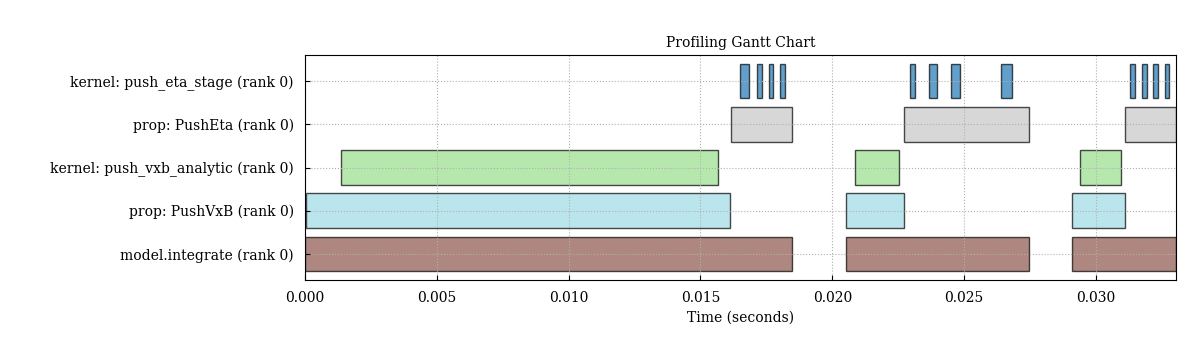
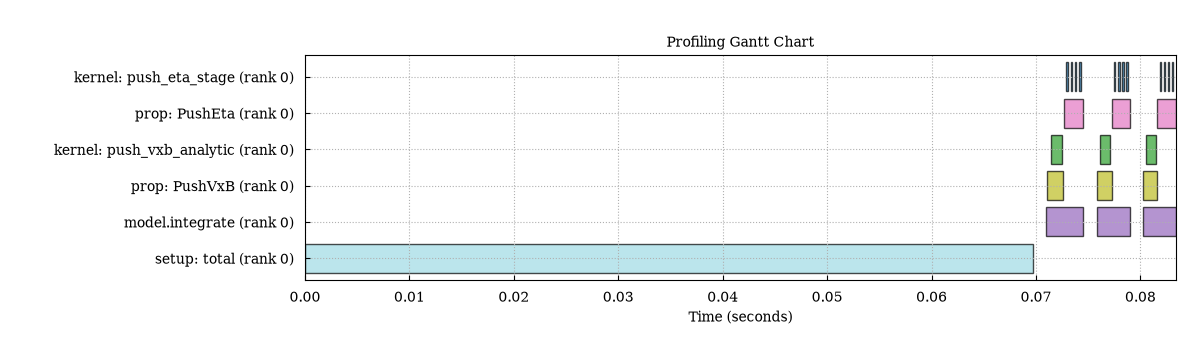
Update docs

diff --git a/profiling/profiling_job.py b/profiling/profiling_job.py
@@ -38,6 +38,7 @@ mpi4py.rc.finalize = False
 
 import json
 import os
+import shlex
 import shutil
 import subprocess
 import time
@@ -661,7 +662,12 @@ class ProfilingCase:
                 print("Upload skipped; nothing was pushed to the profiling-data repo.")
                 print("Push this case later, exactly as packaged, without re-running it:")
                 print(f"    python {script_dir / 'upload.py'} {self.destination_dir}")
-                print("Or plot the results locally by opening the HTML files in the packaged directories, e.g.:")
-                print(f"    scope-profiler pproc {self.destination_dir / _run_folder_name(sorted(packaged_launch_ids)[0]) / '*.h5'} --rank 0")
+                first_run_glob = self.destination_dir / _run_folder_name(sorted(packaged_launch_ids)[0]) / "*.h5"
+                plot_dir = self.destination_dir / "figures"
+                print("Or plot the results locally from the packaged profiling_data.h5 files, e.g.:")
+                print(
+                    "    scope-profiler plot all "
+                    f"{shlex.quote(str(first_run_glob))} --ranks 0 -o {shlex.quote(str(plot_dir))}",
+                )
         else:
             print(f"No profiling output found for '{self.label}'; nothing to package.")

diff --git a/doc/sections/userguide.rst b/doc/sections/userguide.rst
@@ -850,7 +850,6 @@ to:
 
     env = EnvironmentOptions(
         profiling_activated=True,
-        profiling_trace=True,
     )
 
 Then run the file as usual:
@@ -860,10 +859,9 @@ Then run the file as usual:
     python params_Vlasov.py
 
 When profiling is enabled, Struphy writes the main profiling data to
-``profiling_data.h5`` in the simulation output folder. If ``profiling_trace``
-is enabled, this file also contains the per-call timestamps needed for
-time-based plots such as Gantt charts; without it, only call counts are
-recorded.
+``profiling_data.h5`` in the simulation output folder. The file contains the
+region timings and per-call timestamps needed for time-based plots such as
+Gantt charts and flame graphs.
 
 Note that ``profiling_data.h5`` is a plain ``scope-profiler`` output file, so
 it is post-processed with ``scope-profiler`` itself rather than with
@@ -873,19 +871,22 @@ it is post-processed with ``scope-profiler`` itself rather than with
 Post-processing with the ``scope-profiler`` CLI
 ^^^^^^^^^^^^^^^^^^^^^^^^^^^^^^^^^^^^^^^^^^^^^^^^
 
-``scope-profiler`` ships its own post-processing command, ``scope-profiler
-pproc``, which turns one or more ``profiling_data.h5`` files into Gantt
-charts, flame graphs, duration bar charts, a duration-over-time view, and a
-``region_statistics.json`` summary — without writing any code:
+``scope-profiler`` ships its own post-processing commands. In version 0.3.1,
+plotting lives under ``scope-profiler plot``. For the full set of standard
+figures, use the ``all`` preset:
 
 .. code-block:: bash
 
-    scope-profiler pproc sim_1/profiling_data.h5 -o figures
+    scope-profiler plot all sim_1/profiling_data.h5 \
+        --include '^setup: total$' '^model\.integrate$' '^prop: ' '^kernel: ' \
+        -o figures
 
 The two figures below were generated exactly this way, from the
 ``params_Vlasov.py`` example above (default grid and time stepping,
-3 saved steps, 1 MPI rank). To regenerate them, run
-``doc/generate_profiling_figures.sh`` from the repository root.
+3 saved steps, 1 MPI rank), filtered to ``setup: total``,
+``model.integrate``, ``prop: <PropagatorName>`` and ``kernel: <kernel_name>``
+regions. To regenerate them, run ``doc/generate_profiling_figures.sh`` from the
+repository root.
 
 The Gantt chart places one lane per ``(region, rank)`` pair and is the view to
 reach for when the question is *when* things happened — startup cost, gaps
@@ -895,7 +896,7 @@ between steps, ranks drifting apart:
     :figwidth: 100%
     :alt: Gantt chart of profiling regions across MPI ranks
 
-    Gantt chart produced by ``scope-profiler pproc`` for the ``Vlasov``
+    Gantt chart produced by ``scope-profiler plot all`` for the ``Vlasov``
     example, one lane per region.
 
 The flame graph instead answers *where the time went*: the call stack is
@@ -910,19 +911,18 @@ reconstructed from timestamp containment, so nested regions such as
     Flame graph for the same run, rank 0, showing nested profiling regions.
 
 Passing several ``profiling_data.h5`` files (e.g. from runs at different MPI
-rank counts) additionally produces a per-region speedup plot, and
-``--x-field`` can compare runs along other metadata fields such as
+rank counts) to ``scope-profiler plot speedup`` produces a per-region speedup
+plot, and ``--x`` can compare runs along other metadata fields such as
 ``omp_num_threads``. Filtering regions with ``--include``/``--exclude``,
 selecting ranks with ``--ranks``, switching to interactive HTML output with
-``--backend plotly``, and exporting the underlying data or ``.prof`` /
-speedscope files for external viewers are all covered in the
+``--backend plotly``, inspecting text summaries with ``scope-profiler
+inspect``, and exporting the underlying plot data or ``.prof`` / speedscope
+files with ``scope-profiler export`` are all covered in the
 `postprocessing CLI guide <https://max-models.github.io/scope-profiler/guide/postprocessing_cli.html>`_.
 This documentation page is not meant to duplicate that guide — see the link
 for the full set of flags and examples.
 
-If you need a quick sanity check without the CLI, look at
-``region_statistics.json`` for the total runtime of the dominant regions and
-compare them across ranks. A large imbalance between ranks usually means the
-expensive section is load-dependent rather than purely algorithmic.
-
-
+For a quick text sanity check, run ``scope-profiler inspect
+sim_1/profiling_data.h5`` and compare the total runtime of the dominant regions
+across ranks. A large imbalance between ranks usually means the expensive
+section is load-dependent rather than purely algorithmic.
